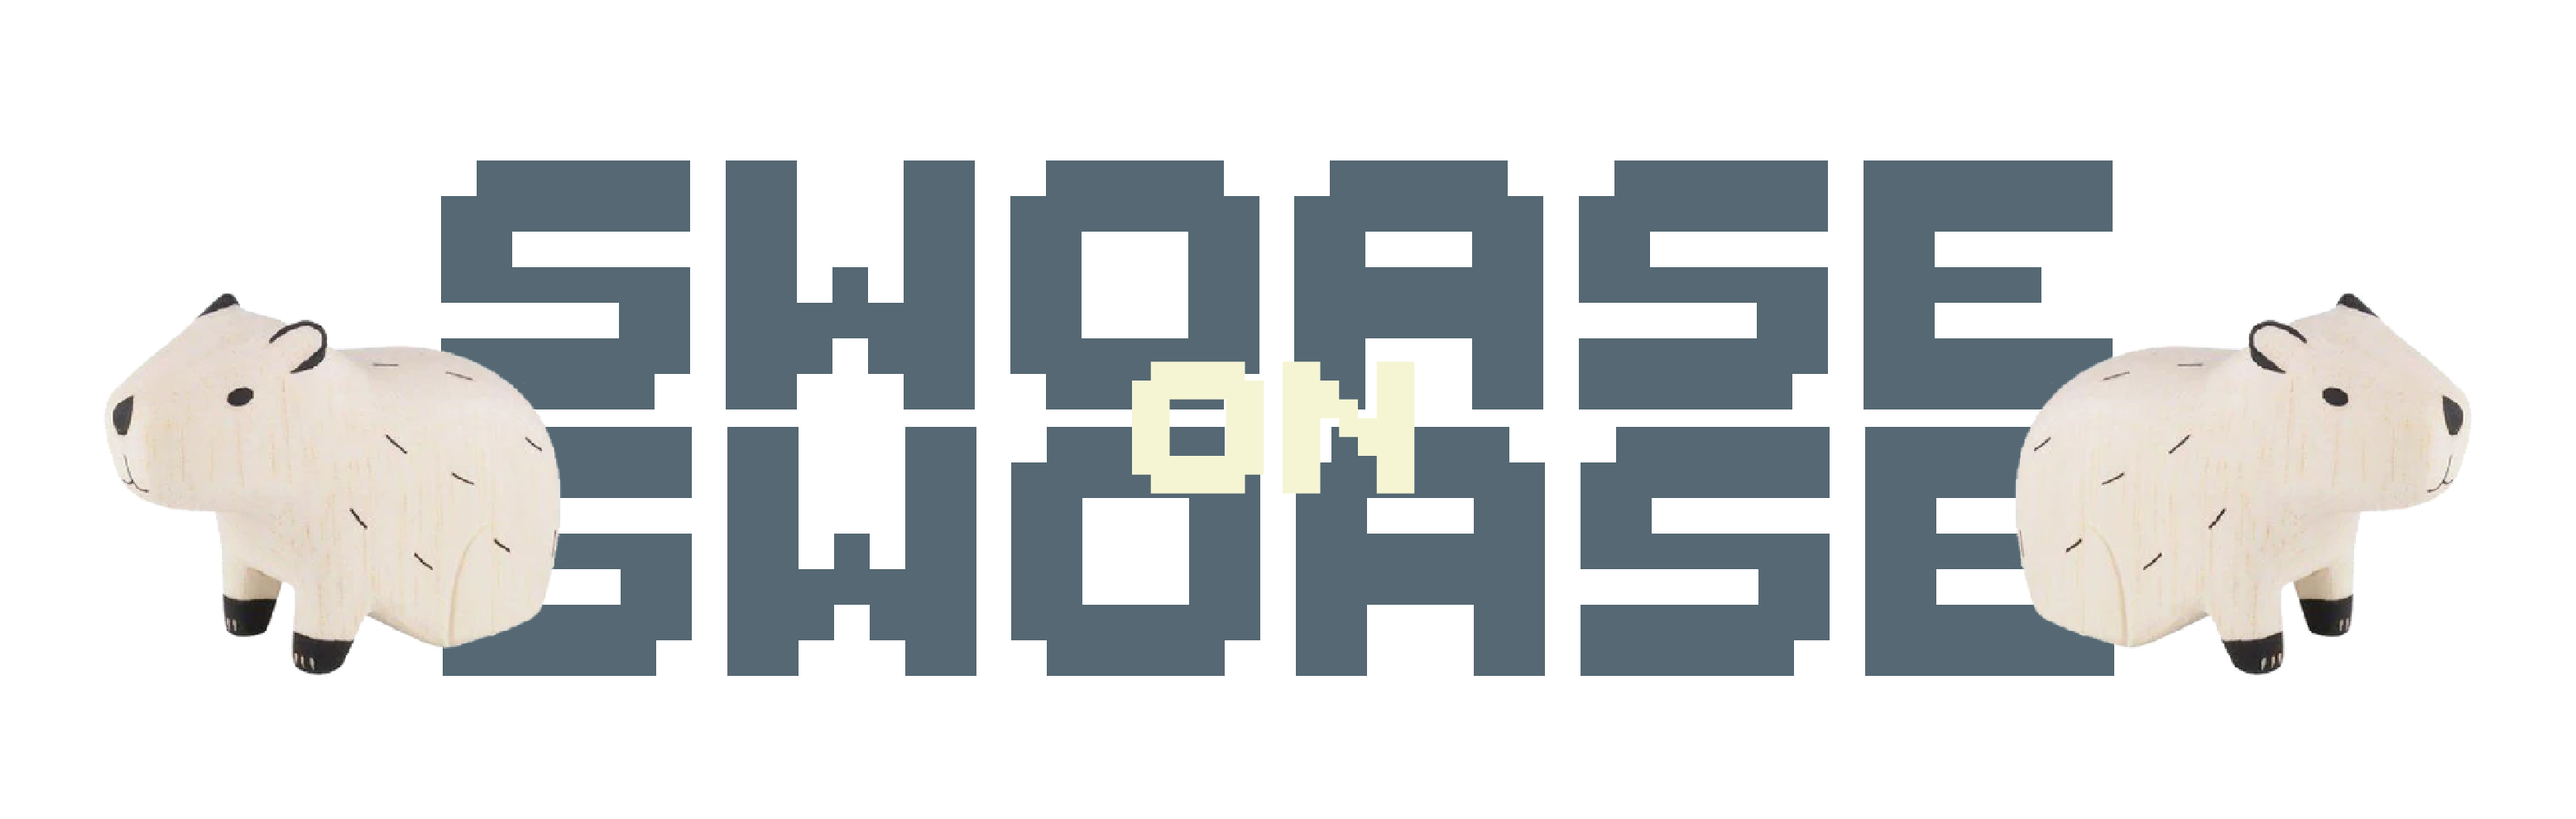
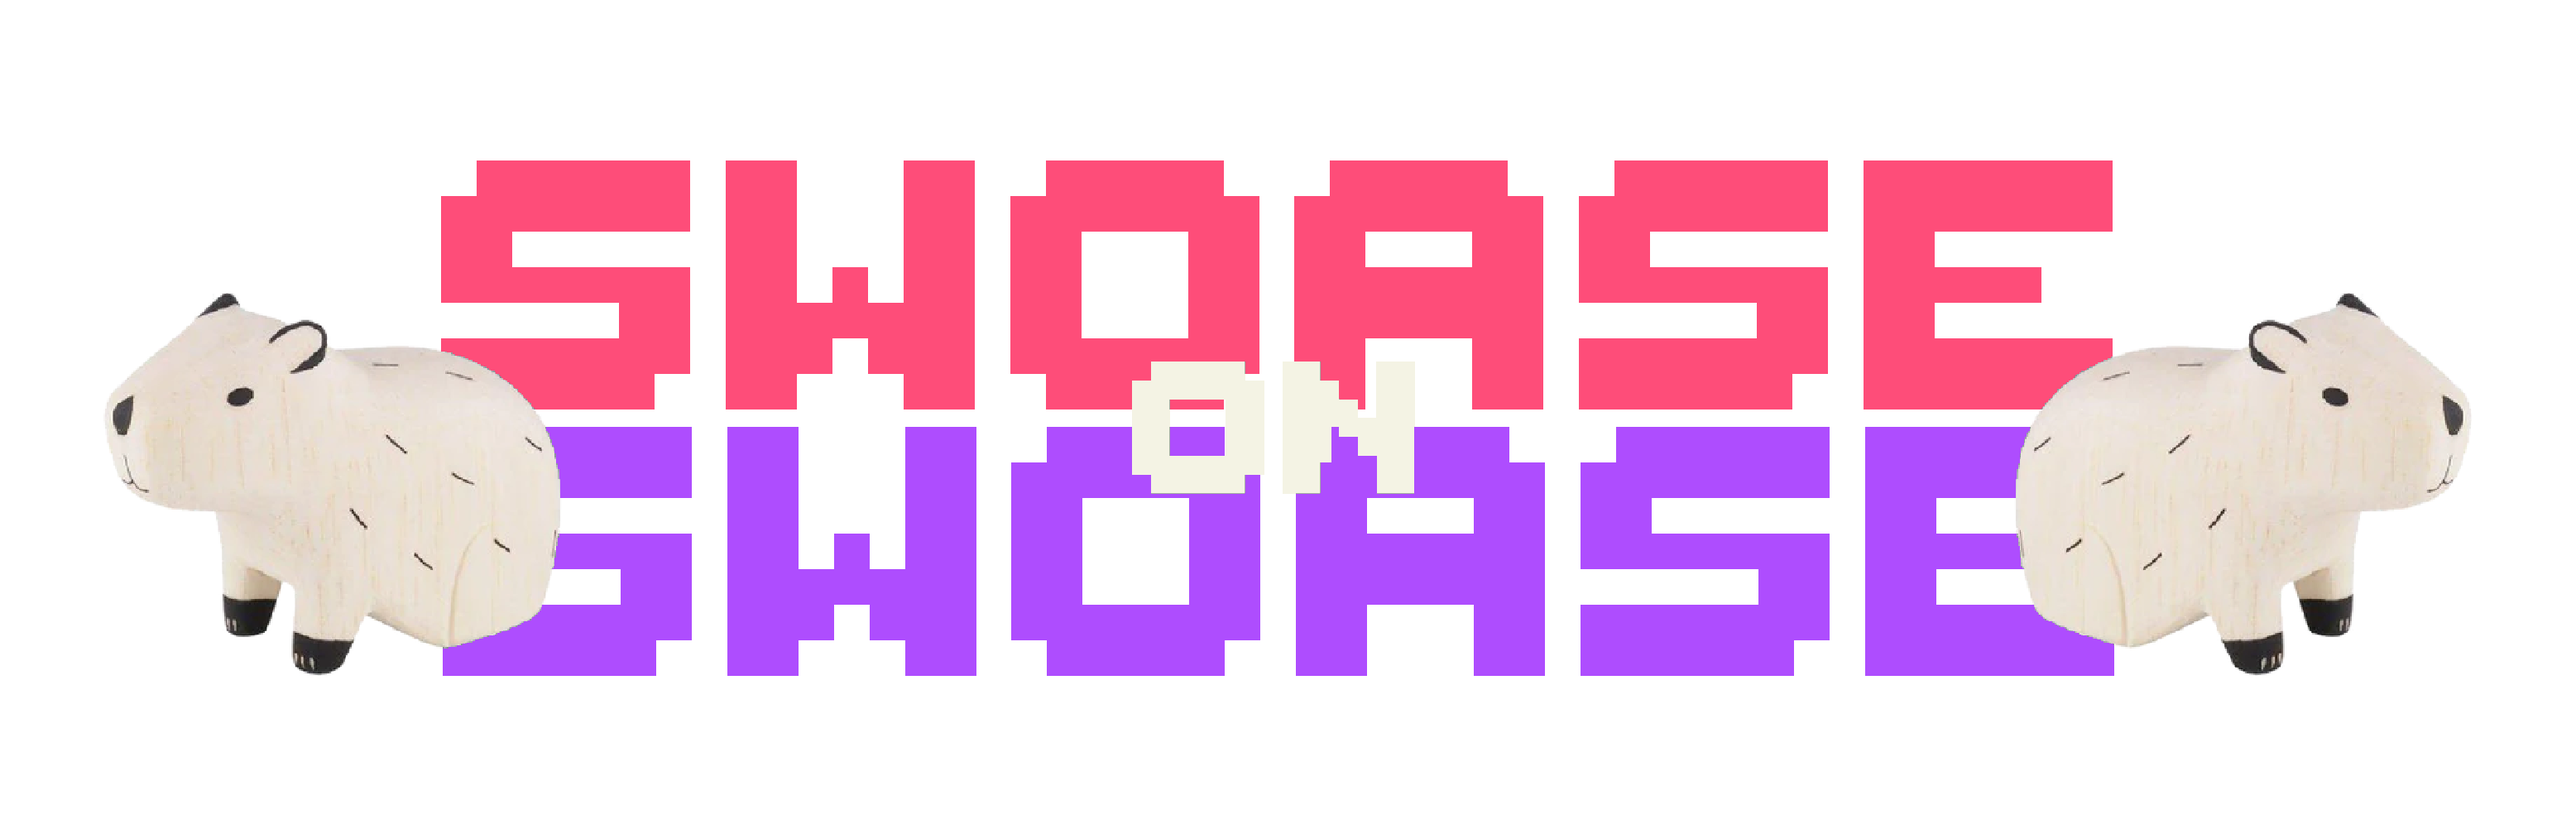
major fucking push. djump,  imgflip, char coll.

Changed region(s): [[0.1558, 0.1818, 0.8413, 0.8485]]

diff --git a/src/game.py b/src/game.py
@@ -28,6 +28,7 @@ from pygame.locals import (
     K_s,
     K_RETURN,
     K_ESCAPE,
+    K_SPACE,
     KEYDOWN,
     QUIT,
 )
@@ -41,13 +42,20 @@ class Game():
 
         # Create the screen object
         # The size is determined by the constant SCREEN_WIDTH and SCREEN_HEIGHT
-
         self.screen = pygame.display.set_mode((C.SCREEN_WIDTH, C.SCREEN_HEIGHT), pygame.RESIZABLE)
+        
+        # Instantiate player. Right now, this is just a rectangle.
+        self.player = Player(key_presses_1, "assets/img/character.png", (200, 100), self.screen)
+        self.player2 = Player(key_presses_2, "assets/img/character2.png", (C.SCREEN_WIDTH - 300, 100), self.screen)
+        
+        pygame.mouse.set_visible(False)
 
         pygame.display.set_caption("SWOASE ON SWOASE")
         icon = pygame.image.load("assets/img/capy.png")
         pygame.display.set_icon(icon)
         
+        self.level = Level(C.LEVEL_MAP, self.screen, "assets/img/DefaultBackground.png")
+
         self.select_sound = pygame.mixer.Sound("assets/sound/Select.wav")
         self.select_sound.set_volume(0.3)
 
@@ -57,8 +65,10 @@ class Game():
         self.options_running = False
         self.pregame_running = False
         
-        self.color_select = (200, 64, 115)
-        self.color_default = (245, 245, 212)
+        self.color_menu = (40, 40, 40)
+        self.color_dos = (77, 77, 77)
+        self.color_select = (255, 77, 112)
+        self.color_default = (245, 244, 228)
 
     def draw_text(self, text, color, size, x, y):
         font = pygame.font.Font("assets/fonts/ThaleahFat.ttf", size)
@@ -121,7 +131,7 @@ class Game():
                 elif event.type == QUIT:
                     self.menu_running = False
             
-            self.screen.fill((48, 44, 46))
+            self.screen.fill(self.color_menu)
             # create a surface object, image is drawn on it.
             title_img = pygame.image.load("assets/img/title.png")
             title_img = pygame.transform.scale(title_img,(700,200))
@@ -134,16 +144,17 @@ class Game():
             pygame.display.flip()
 
     def run_game(self):
-        # Instantiate player. Right now, this is just a rectangle.
-        player = Player(key_presses_1, (0, 0), self.screen)
-        player2 = Player(key_presses_2, (C.SCREEN_WIDTH - 50, 0), self.screen)
-
-        # Setup the level
-        level = Level(C.LEVEL_MAP, self.screen, "assets/img/DefaultBackground.webp")
-        
+        # Setup the level        
         self.game_running = True
         # Main loop
         while self.game_running:
+            
+            clock.tick(60) # limit fps to 60
+            pressed_keys = pygame.key.get_pressed()
+            self.player.move(pressed_keys)
+            self.player2.move(pressed_keys)
+            self.player.updatePos()
+            self.player2.updatePos()
             
             # for loop through the event queue
             for event in pygame.event.get():
@@ -152,23 +163,24 @@ class Game():
                     # If the Esc key is pressed, then exit the main loop
                     if event.key == K_ESCAPE:
                         self.pause_menu()
+                    elif event.key == K_w:
+                        self.player.jump()
+                    elif event.key == K_UP:
+                        self.player2.jump()
+                    elif event.key == K_RETURN:
+                        self.player2.dash(pressed_keys)
+                    elif event.key == K_SPACE:
+                        self.player.dash(pressed_keys)
 
-            clock.tick(60) # limit fps to 60
-            pressed_keys = pygame.key.get_pressed()
-            player.move(pressed_keys)
-            player2.move(pressed_keys)
-            player.updatePos()
-            player2.updatePos()
-            # set screen title to player.isOnGround, position
-            pygame.display.set_caption("game | onGround: " + str(player.isOnGround) + " | canDoubleJump: " + str(player.hasDoubleJump))
-            if player.hasDoubleJump == True:
-                pygame.display.set_caption("hi")
             # Run the Level
-            level.run()
+            self.level.run()
+            
+            self.check_collisions()
 
             # Draw the player on the screen
-            self.screen.blit(player.image, player.pos)
-            self.screen.blit(player2.image, player2.pos)
+            self.screen.blit(self.player.image, self.player.pos)
+            self.screen.blit(self.player2.image, self.player2.pos)
+            
             
             self.draw_text("IN LIFE EVEN WHEN TOLD NOT TO, SWOASE.", (255, 255, 255), 30, C.SCREEN_WIDTH/2, C.SCREEN_HEIGHT/2)
 
@@ -180,7 +192,7 @@ class Game():
         
         self.paused = True
         while self.paused:
-            pygame.draw.rect(self.screen, (48, 44, 46), pygame.Rect(C.SCREEN_WIDTH/2 - 250, C.SCREEN_HEIGHT/2 - 250, 500, 500))
+            pygame.draw.rect(self.screen, self.color_dos, pygame.Rect(C.SCREEN_WIDTH/2 - 250, C.SCREEN_HEIGHT/2 - 250, 500, 500))
             # Check for QUIT event. If QUIT, then set running to false.    
             if(current_selection == "resume"):
                 resume_text_color = self.color_select
@@ -246,7 +258,7 @@ class Game():
                 elif event.type == QUIT:
                     self.options_running = False
             
-            self.screen.fill((48, 44, 46))
+            self.screen.fill(self.color_dos)
             self.draw_text("OPTIONS", self.color_default, 75, C.SCREEN_WIDTH/2, 100)
             self.draw_text("Nathan Wand occasionally smells like cheese.", self.color_default, 40, C.SCREEN_WIDTH/2, C.SCREEN_HEIGHT/2)
             pygame.display.flip()
@@ -295,10 +307,17 @@ class Game():
                     self.pregame_running = False
                     self.run_menu()
             
-            self.screen.fill((48, 44, 46))
+            self.screen.fill(self.color_menu)
             self.draw_text("PRE GAME MENU", self.color_default, 90, C.SCREEN_WIDTH/2, 150)
             self.draw_text("PLAY", start_text_color, 50, C.SCREEN_WIDTH/2, 400)
             self.draw_text("PRACTICE", (130,130,130), 50, C.SCREEN_WIDTH/2, 500)
             self.draw_text("ARMORY", (130,130,130), 50, C.SCREEN_WIDTH/2, 600)
             self.draw_text("RETURN TO MENU", quit_text_color, 50, C.SCREEN_WIDTH/2, 700)
             pygame.display.flip()
+            
+    def check_collisions(self):
+        #if pygame.sprite.spritecollide(self.player, self.level.tile_group, False, pygame.sprite.collide_mask):
+        if self.player.mask.overlap(self.player2.mask, (self.player.pos[0] - self.player2.pos[0], self.player.pos[1] - self.player2.pos[1])):
+            pygame.display.set_caption("COLLISION DETECTED")
+        else:
+            pygame.display.set_caption("COLLISION NOT")

diff --git a/src/Player.py b/src/Player.py
@@ -12,40 +12,40 @@ from pygame.locals import (
 )
 
 class Player(pygame.sprite.Sprite):
-    def __init__(self, keyBinds, pos, surface):
+    def __init__(self, keyBinds, img, pos, surface):
         self.keyBinds = keyBinds
-        self.image = pygame.image.load("assets/img/capy.png")
-        self.image = pygame.transform.scale(self.image, (60, 60)) # scale image down
+        self.image = pygame.image.load(img).convert_alpha()
+        self.image = pygame.transform.scale(self.image, (50, 70)) # scale image down
         # convert pos to pair of float
         pos = (float(pos[0]), float(pos[1]))
         surface.blit(self.image, pos)
         self.rect = self.image.get_rect()
         self.pos = np.array(pos) # (x_pos, y_pos)
         self.vel = np.array([0.0, 0.0]) # (x_vel, y_vel)
+        
         self.FastFall = False
         self.isOnGround = False
         self.hasDoubleJump = True
+        self.hasDash = True
+        
+        self.facingRight = True
+        
+        self.mask = pygame.mask.from_surface(self.image)
 
-    def move(self, pressed_keys):
-        if self.isOnGround:
-            if pressed_keys[self.keyBinds["up"]]:
-                self.vel[1] -= 10
-                self.hasDoubleJump = True
-                self.isOnGround = False
-        else:
-            if pressed_keys[self.keyBinds["up"]] and self.hasDoubleJump == True:
-                self.vel[1] = 0
-                self.vel[1] -= 10
-                self.hasDoubleJump = False
-                self.isOnGround = False
-  
+    def move(self, pressed_keys):  
         if pressed_keys[self.keyBinds["down"]]:
             self.FastFall = True
-            self.vel[1] += 2
+            self.vel[1] += 1.5
         if pressed_keys[self.keyBinds["left"]]:
-            self.vel[0] -= 2
+            if self.facingRight:
+                self.image = pygame.transform.flip(self.image, True, False)
+                self.facingRight = False
+            self.vel[0] -= 1.5
         if pressed_keys[self.keyBinds["right"]]:
-            self.vel[0] += 2
+            if not self.facingRight:
+                self.image = pygame.transform.flip(self.image, True, False)
+                self.facingRight = True
+            self.vel[0] += 1.5
 
 
         # reset fast fall if player hits the ground
@@ -58,7 +58,7 @@ class Player(pygame.sprite.Sprite):
         # deccelerate horizontally
         self.vel[0] *= 0.85
         # add gravity
-        self.vel[1] += 1.0
+        self.vel[1] += 0.9
         # fast fall
         if self.FastFall:
             self.vel[1] += 2.0
@@ -73,6 +73,8 @@ class Player(pygame.sprite.Sprite):
             self.pos[1] = C.SCREEN_HEIGHT - self.image.get_height()
             self.vel[1] = 0
             self.isOnGround = True
+            self.hasDoubleJump = True
+            self.hasDash = True
             
             
         if self.pos[0] <= 0:
@@ -82,5 +84,22 @@ class Player(pygame.sprite.Sprite):
             self.pos[0] = C.SCREEN_WIDTH - self.image.get_width()
             self.vel[0] = 0
         
-
-
+    def jump(self):
+        if self.isOnGround:
+            self.vel[1] -= 15
+            self.isOnGround = False
+        elif self.hasDoubleJump:
+            self.vel[1] = 0
+            self.vel[1] -= 15
+            self.hasDoubleJump = False
+            self.isOnGround = False
+            
+    def dash(self, pressed_keys):
+        if not self.isOnGround and self.hasDash:
+            if pressed_keys[self.keyBinds["left"]]:
+                self.hasDash = False
+                self.vel[0] -= 20
+            if pressed_keys[self.keyBinds["right"]]:
+                self.hasDash = False
+                self.vel[0] += 20
+                

diff --git a/src/CONSTANTS.py b/src/CONSTANTS.py
@@ -1,22 +1,26 @@
 # ISSUE: we need to figure out how to make game full screen and kinda scale the level to the screen size
 # This is temporary, but we can use this to test collisions
 LEVEL_MAP = [
-    '                        ',
-    '                        ',
-    '                        ',
-    '                        ',
-    '                        ',
-    '                        ',
-    '                        ',
-    '                        ',
-    '                        ',
-    '          XXXX          ',
-    '                        ',
-    '                        ',
-    '   XXXX          XXXX   ',
-    '                        ',
-    '                        ',
-    'XXXXXXXXXXXXXXXXXXXXXXXX',
+    'XXXXXXXXXXXXXXXXXXXXXXXXXXXXXX',
+    'X                            X',
+    'X                            X',
+    'X                            X',
+    'X                            X',
+    'X                            X',
+    'X                            X',
+    'XX                          XX',
+    'XXX                        XXX',
+    'XXX                        XXX',
+    'XXXX                      XXXX',
+    'XX                          XX',
+    'X         XXXXXXXXXX         X',
+    'X                            X',
+    'X   XXXX             XXXX    X',
+    'X                            X',
+    'X                            X',
+    'X                            X',
+    'XXX     X            X     XXX',
+    'XXXXXXXXXXXXXXXXXXXXXXXXXXXXXX',
 ]
 SCREEN_WIDTH = 1200
 SCREEN_HEIGHT = 800

diff --git a/src/Level.py b/src/Level.py
@@ -1,27 +1,26 @@
 import pygame
 from CONSTANTS import *
 from Tile import Tile
-from Player import Player
 
 class Level:
     def __init__(self, level_data, surface, background_img_path):
         self.display_surface = surface
         self.background_image = pygame.image.load(background_img_path).convert()
         self.background_image = pygame.transform.scale(self.background_image, (SCREEN_WIDTH, SCREEN_HEIGHT))
+        self.tile_group = pygame.sprite.Group()
         self.setup_level(level_data)
         
     def setup_level(self, layout):
         TILE_SIZE = min(SCREEN_WIDTH // len(LEVEL_MAP[0]), SCREEN_HEIGHT // len(LEVEL_MAP))
-        self.Tile = pygame.sprite.Group()
         for row_index, row in enumerate(layout):
             for col_index, col in enumerate(row):
                 x = col_index * TILE_SIZE
                 y = row_index * TILE_SIZE
                 if col == 'X':
                     tile = Tile((x,y), TILE_SIZE, 'assets/img/DefaultTile.png')
-                    self.Tile.add(tile)
+                    self.tile_group.add(tile)
 
 
     def run(self):
         self.display_surface.blit(self.background_image, (0, 0))
-        self.Tile.draw(self.display_surface)
+        self.tile_group.draw(self.display_surface)

diff --git a/src/Tile.py b/src/Tile.py
@@ -6,3 +6,4 @@ class Tile(pygame.sprite.Sprite):
         self.image = pygame.image.load(img_path)
         self.image = pygame.transform.scale(self.image,(size, size))
         self.rect = self.image.get_rect(topleft = pos)
+        self.mask = pygame.mask.from_surface(self.image)
